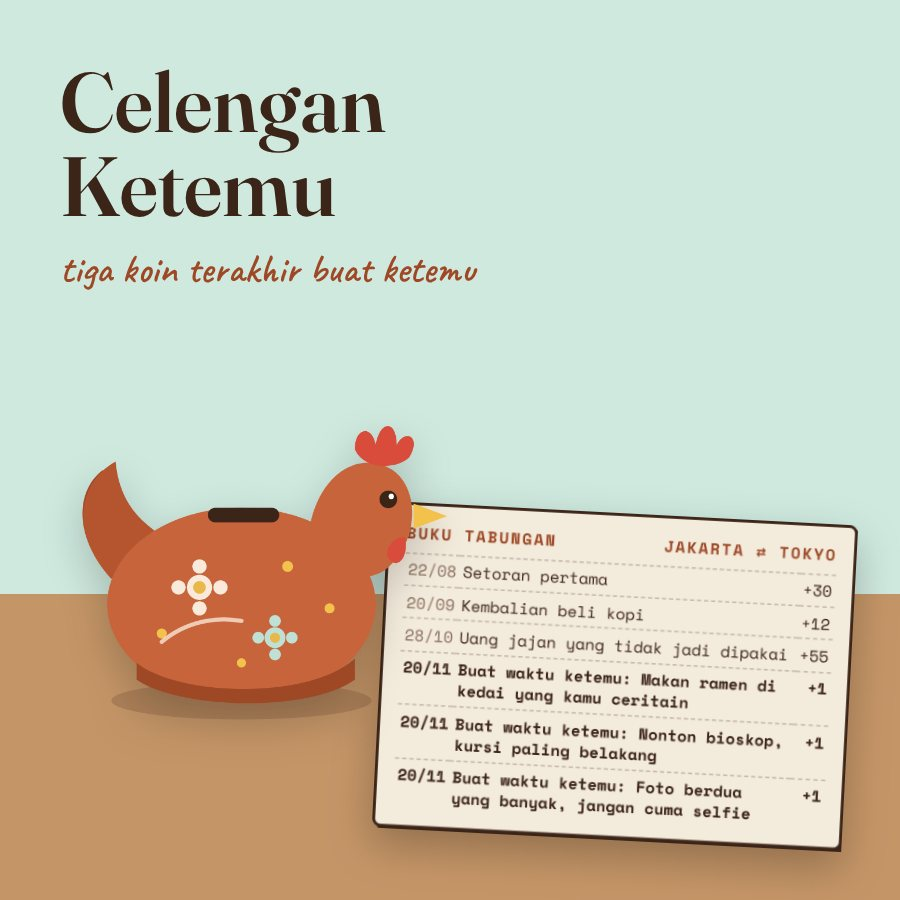
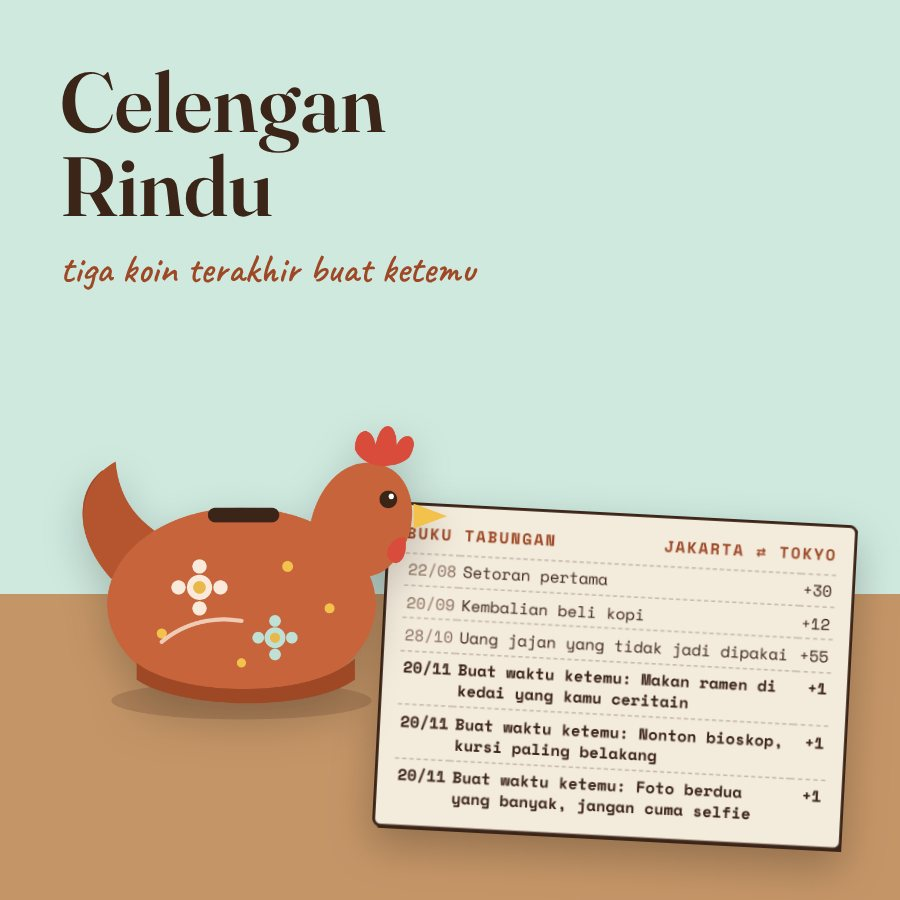
Ganti nama tema Celengan Ketemu menjadi Celengan Rindu
Nama tampil di katalog, formulir, halaman momen, panel developer, email,
serta sampul dan gambar OG. Id tema tetap celengan.

Claude-Session: https://claude.ai/code/session_01PPFSSbQNr6pyxZ4TXWd4Bt

Changed region(s): [[0.0933, 0.1556, 0.3733, 0.2489]]

diff --git a/functions/momen.js b/functions/momen.js
@@ -32,7 +32,7 @@ const TEMA = {
   "rumah-menyala": { nama: "Rumah yang Menyala", ringkas: "Satu malam Natal di rumahnya: lonceng pintu, kabel lampu yang dirangkai sampai pohonnya menyala, foto dari kaus kaki, dan bintang di puncak pohon." },
   "hitung-mundur": { nama: "Hitung Mundur di Atap", ringkas: "Malam pergantian tahun di atap: hitung mundur dari 10, kembang api yang mengganti angka tahunnya, rencana tahun depan, lalu bersulang." },
   "pabrik-cokelat": { nama: "Cokelat Buatan Sendiri", ringkas: "Cokelat Valentine yang dia bikin sendiri: foil dikelupas, cokelat dituang pas ke cetakan berhias alasanmu sayang dia, lalu dibagi dua." },
-  "celengan": { nama: "Celengan Ketemu", ringkas: "Celengan ayam untuk tabungan ketemu: tiga koin terakhir membawa rencana kalian, lalu dipecah dan isinya foto serta suratmu yang tergulung." },
+  "celengan": { nama: "Celengan Rindu", ringkas: "Celengan ayam untuk tabungan ketemu: tiga koin terakhir membawa rencana kalian, lalu dipecah dan isinya foto serta suratmu yang tergulung." },
   "koper": { nama: "Koper ke Kotamu", ringkas: "Dia berkemas untuk terbang ke kotamu: barang titipanmu masuk koper, foto muncul di mesin X-ray, surat di balik boarding pass." },
   "herbarium": { nama: "Herbarium Kecil", ringkas: "Buku herbarium kecil: bunga kering dicocokkan ke bayangannya untuk membuka hal-hal yang kamu kagumi darinya, foto di balik kertas minyak, dan surat yang dipres supaya awet." },
   "malam-takbiran": { nama: "Malam Takbiran", ringkas: "Malam terakhir Ramadan sampai pagi Lebaran: hilal dicari lewat teropong, ketupat dianyam sampai maaf-maafmu terbaca, beduk dipukul, lalu bersalaman." }

diff --git a/functions/api/[[jalur]].js b/functions/api/[[jalur]].js
@@ -856,7 +856,7 @@ async function rapikanIsi(env, kode, badan, lamaIsi, tema) {
     if (isi.lokasi.some(x => !x)) throw new Error("Ketiga lokasi syuting belum diisi.");
     isi.waPengirim = teks(badan.whatsapp, BATAS.whatsapp);
   } else if (tema === "celengan") {
-    /* "Celengan Ketemu" (LDR): `rencana` = tiga hal yang mau dilakukan
+    /* "Celengan Rindu" (LDR): `rencana` = tiga hal yang mau dilakukan
        waktu ketemu; tiap rencana jadi satu koin terakhir di celengan. */
     isi.rencana = [0, 1, 2].map(i => teks((p.rencana || [])[i], BATAS.rencanaKetemu));
     if (isi.rencana.some(x => !x)) throw new Error("Ketiga rencana waktu ketemu belum diisi.");
@@ -1153,7 +1153,7 @@ const NAMA_TEMA = {
   "loker-terakhir": "Loker Terakhir", "kotak-musik": "Kotak Musik Diservis", "lewat-duluan": "Dia Lewat Sini Duluan",
   "garis-finis": "Garis Finis", "pasar-malam": "Pasar Malam", "confess-kunang": "Toples Kunang-Kunang",
   "kasus-pengirim": "Kasus Pengirim Tanpa Nama", "getwell-365": "36,5", "stasiun-terakhir": "Stasiun Terakhir",
-  "rumah-contoh": "Rumah Contoh", "rumah-menyala": "Rumah yang Menyala", "hitung-mundur": "Hitung Mundur di Atap", "herbarium": "Herbarium Kecil", "celengan": "Celengan Ketemu", "koper": "Koper ke Kotamu",
+  "rumah-contoh": "Rumah Contoh", "rumah-menyala": "Rumah yang Menyala", "hitung-mundur": "Hitung Mundur di Atap", "herbarium": "Herbarium Kecil", "celengan": "Celengan Rindu", "koper": "Koper ke Kotamu",
   "pabrik-cokelat": "Cokelat Buatan Sendiri", "malam-takbiran": "Malam Takbiran"
 };
 const rupiah = n => "Rp" + Math.round(Number(n) || 0).toLocaleString("id-ID");

diff --git a/celengan-demo.html b/celengan-demo.html
@@ -18,7 +18,7 @@
 <link rel="preconnect" href="https://fonts.gstatic.com" crossorigin>
 <link href="https://fonts.googleapis.com/css2?family=Caveat:wght@600;700&family=Fraunces:opsz,wght@9..144,500;9..144,600&family=Plus+Jakarta+Sans:wght@400;600;700&family=Space+Mono:wght@400;700&display=swap" rel="stylesheet">
 <!-- =====================================================================
-     FOREVERSE · LDR · Tema "Celengan Ketemu" (id: celengan) — BERKAS DEMO
+     FOREVERSE · LDR · Tema "Celengan Rindu" (id: celengan) — BERKAS DEMO
      Data Amira & Adriel dipatok untuk demo publik. Pesanan sungguhan memakai celengan.html.
      Isi pesanan disisipkan server ke blok DATA di bawah.
      ===================================================================== -->
@@ -455,7 +455,7 @@ function pasangBalasan(wadah, teks, kelasUtama, kelasWa){
 
 
 /* ═══════════════════════════════════════════════════════════════
-   Celengan Ketemu (LDR). Celengan ayam tanah liat untuk tabungan
+   Celengan Rindu (LDR). Celengan ayam tanah liat untuk tabungan
    ketemu, di atas satu meja yang sama dari awal sampai akhir.
    Diketuk biar bunyi, tiga koin terakhir dimasukkan (tiap koin =
    satu isian `rencana`, hal yang mau dilakukan waktu ketemu, dan

diff --git a/celengan.html b/celengan.html
@@ -18,7 +18,7 @@
 <link rel="preconnect" href="https://fonts.gstatic.com" crossorigin>
 <link href="https://fonts.googleapis.com/css2?family=Caveat:wght@600;700&family=Fraunces:opsz,wght@9..144,500;9..144,600&family=Plus+Jakarta+Sans:wght@400;600;700&family=Space+Mono:wght@400;700&display=swap" rel="stylesheet">
 <!-- =====================================================================
-     FOREVERSE · LDR · Tema "Celengan Ketemu" (id: celengan)
+     FOREVERSE · LDR · Tema "Celengan Rindu" (id: celengan)
      Isi pesanan disisipkan server ke blok DATA di bawah.
      ===================================================================== -->
 <script id="foreverse-data" type="application/json">
@@ -433,7 +433,7 @@ function pasangBalasan(wadah, teks, kelasUtama, kelasWa){
 
 
 /* ═══════════════════════════════════════════════════════════════
-   Celengan Ketemu (LDR). Celengan ayam tanah liat untuk tabungan
+   Celengan Rindu (LDR). Celengan ayam tanah liat untuk tabungan
    ketemu, di atas satu meja yang sama dari awal sampai akhir.
    Diketuk biar bunyi, tiga koin terakhir dimasukkan (tiap koin =
    satu isian `rencana`, hal yang mau dilakukan waktu ketemu, dan

diff --git a/developer.html b/developer.html
@@ -730,7 +730,7 @@ label.lbl{display:block;font-size:.76rem;font-weight:600;color:var(--ink-soft);m
     "loker-terakhir":"Loker Terakhir", "confess-kunang":"Toples Kunang-Kunang", "kasus-pengirim":"Kasus Pengirim",
     "getwell-365":"36,5", "pasar-malam":"Pasar Malam", "lewat-duluan":"Dia Lewat Sini Duluan", "rumah-contoh":"Rumah Contoh",
     "kotak-musik":"Kotak Musik Diservis", "garis-finis":"Garis Finis", "stasiun-terakhir":"Stasiun Terakhir",
-    "rumah-menyala":"Rumah yang Menyala", "hitung-mundur":"Hitung Mundur di Atap", "herbarium":"Herbarium Kecil", "celengan":"Celengan Ketemu", "koper":"Koper ke Kotamu",
+    "rumah-menyala":"Rumah yang Menyala", "hitung-mundur":"Hitung Mundur di Atap", "herbarium":"Herbarium Kecil", "celengan":"Celengan Rindu", "koper":"Koper ke Kotamu",
     "pabrik-cokelat":"Cokelat Buatan Sendiri", "malam-takbiran":"Malam Takbiran", "pemutaran-perdana":"Pemutaran Perdana" };
   var URUT_MOMEN = ["birthday","anniversary","ldr","graduation","apology","lovenote","congrats","askout","confess","getwell","parting","proposal","spesial"];
   var nmTema = function(t){ return NAMA_TEMA[t] || t || "-"; };

diff --git a/pesan.html b/pesan.html
@@ -478,7 +478,7 @@ textarea{resize:vertical;min-height:88px;line-height:1.6}
     "langit-harapan":    { nama:"Langit Harapan",    nfoto:4, foto:"TTTR", mesin:"/langit-harapan.html",    momen:"birthday" },
     "kapal-botol":       { nama:"Kapal dalam Botol", nfoto:4, foto:"RTRT", mesin:"/kapal-botol.html", momen:"anniversary" },
     "zona-waktu":        { nama:"Dua Jendela",       nfoto:4, foto:"TTRR", mesin:"/zona-waktu.html",        momen:"ldr" },
-    "celengan":          { nama:"Celengan Ketemu",   nfoto:4, foto:"TTRR", mesin:"/celengan.html",          momen:"ldr" },
+    "celengan":          { nama:"Celengan Rindu",   nfoto:4, foto:"TTRR", mesin:"/celengan.html",          momen:"ldr" },
     "koper":             { nama:"Koper ke Kotamu",   nfoto:4, foto:"TRRT", mesin:"/koper.html",             momen:"ldr" },
     "loker-terakhir":    { nama:"Loker Terakhir", nfoto:4, foto:"TRTR", mesin:"/loker-terakhir.html", momen:"graduation" },
     "confess-kunang":    { nama:"Toples Kunang-Kunang",  nfoto:4, foto:"TTRR", mesin:"/confess-kunang.html",  momen:"confess" },

diff --git a/index.html b/index.html
@@ -208,7 +208,7 @@ const FOREVERSE_SITE = {
       alur:    ["Foil cokelat hati dikelupas dari sudutnya", "Panci dimiringkan untuk menuang cokelat ke tiga cetakan, lepas tepat di antara dua garis, jangan sampai tumpah", "Tiap cokelat yang pas dihias satu alasan kamu sayang dia", "Bendera di kotak praline ditarik ke atas, fotonya muncul", "Bungkus cokelat dibuka lipat demi lipat: suratmu tertulis di dalamnya", "Cokelatnya dipatahkan jadi dua: separuh untuknya, separuh untukmu, lalu dia membalas"]
     },
     "celengan": {
-      nama:    "Celengan Ketemu",
+      nama:    "Celengan Rindu",
       file:    "/celengan-demo.html",
       cover:   "/cover-celengan.jpg",
       ringkas: "Celengan ayam tanah liat untuk tabungan ketemu. Dia memasukkan tiga koin terakhir, tiap koin satu rencana kalian, lalu memecahkan celengannya dan menemukan foto dan suratmu tergulung di dalamnya.",

diff --git a/koper-demo.html b/koper-demo.html
@@ -79,7 +79,7 @@
 <style>
 /* Palet: papan petunjuk bandara (arang & kuning), langit biru muda, koper
    biru, putih seprai. Beda dari Dua Jendela (krem, coral, amber, hijau)
-   dan Celengan Ketemu (terakota, mint, kayu). */
+   dan Celengan Rindu (terakota, mint, kayu). */
 :root{
   --arang:#23262B; --arang2:#353A41; --kuning:#F6C343; --langit:#BFDDF5; --langit2:#8EC5F0; --biru:#3E6FB8; --biru2:#2C548F; --putih:#F8F7F2; --abu:#C9CDD3; --muted:#6B717A;
   --serif:'Fraunces',Georgia,serif; --sans:'Plus Jakarta Sans',system-ui,sans-serif; --papan:'Barlow Condensed','Plus Jakarta Sans',sans-serif; --tangan:'Caveat',cursive;

diff --git a/koper.html b/koper.html
@@ -57,7 +57,7 @@
 <style>
 /* Palet: papan petunjuk bandara (arang & kuning), langit biru muda, koper
    biru, putih seprai. Beda dari Dua Jendela (krem, coral, amber, hijau)
-   dan Celengan Ketemu (terakota, mint, kayu). */
+   dan Celengan Rindu (terakota, mint, kayu). */
 :root{
   --arang:#23262B; --arang2:#353A41; --kuning:#F6C343; --langit:#BFDDF5; --langit2:#8EC5F0; --biru:#3E6FB8; --biru2:#2C548F; --putih:#F8F7F2; --abu:#C9CDD3; --muted:#6B717A;
   --serif:'Fraunces',Georgia,serif; --sans:'Plus Jakarta Sans',system-ui,sans-serif; --papan:'Barlow Condensed','Plus Jakarta Sans',sans-serif; --tangan:'Caveat',cursive;
